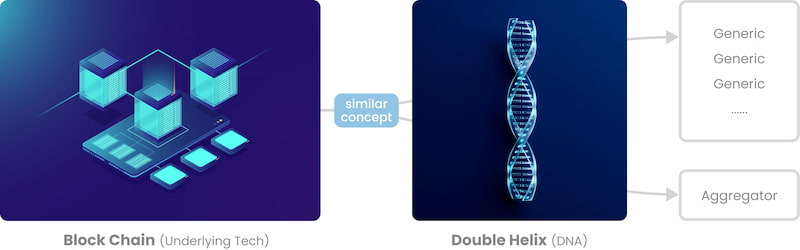
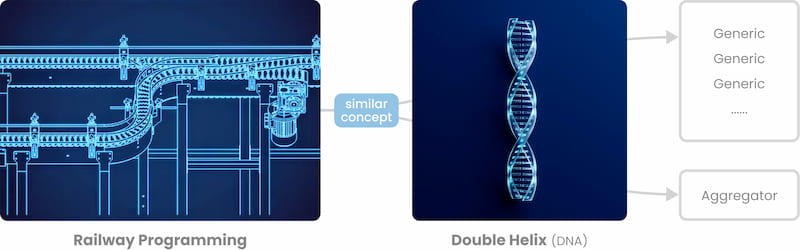
Modify wording and images of loc page

diff --git a/work/projects/loc.html b/work/projects/loc.html
@@ -80,7 +80,7 @@
 						<p class="f-20 mb-1">Target Audience: <span style="color: gray">To businesses, like financial and insurance companies</span></p>
 						<p class="f-20 mb-1">Commercial Goal: <span style="color:gray">Increase user trust</span></p>
 						<p class="f-20 mb-1">Usability Goal: <span style="color:gray">Help user quickly understand the core function</span></p>
-						<p class="f-20">Challenge: <span style="color: gray">Provide a graphical user interface and hide blockchain information that clients do not trust</span></p>
+						<p class="f-20">Challenge: <span style="color: gray">Provide a graphical user interface</span></p>
 					</figcaption>
 					<picture>
 						<source media="(max-width: 600px)" srcset="/images/loc/loc013-small.jpg" alt="">
